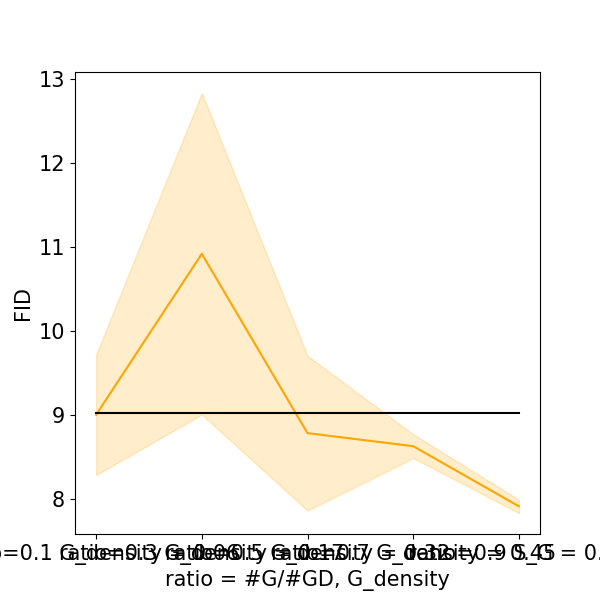
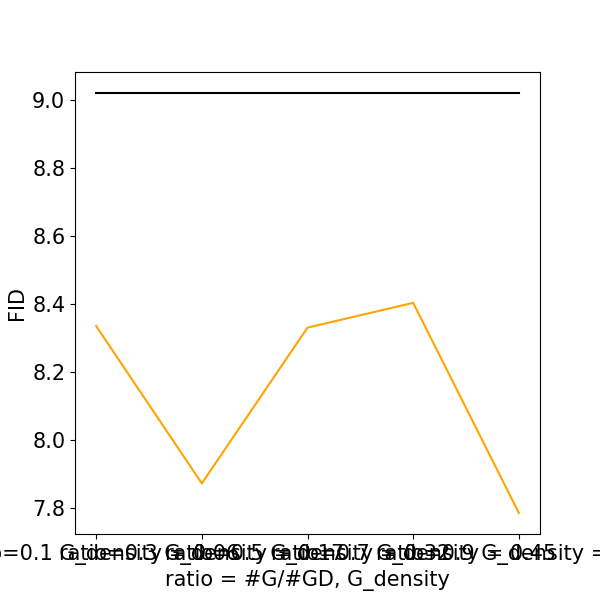
update script for ratio 0.05 0.01

diff --git a/plots/plots.py b/plots/plots.py
@@ -10,21 +10,21 @@ BigGAN_05 = np.array([10.6258, 8.3983, 8.3352, 8.234478, 8.330472]) # 85000
 BigGAN_07 = np.array([8.836767, 8.6992, 8.6248, 8.5837, 8.4033]) # 80000
 BigGAN_09 = np.array([8.0230, 7.9954, 7.9587, 7.9245, 7.7857 ])  # 75000 iteration
 
-BigGAN_line = np.stack((BigGAN_01,BigGAN_03,BigGAN_05,BigGAN_07,BigGAN_09))
+BigGAN_line = np.stack((BigGAN_01[-1],BigGAN_03[-1],BigGAN_05[-1],BigGAN_07[-1],BigGAN_09[-1]))
 
-BigGAN_line_mean = BigGAN_line.mean(axis=1)
-BigGAN_line_std = BigGAN_line.std(axis=1)
+# BigGAN_line_mean = BigGAN_line.mean(axis=1)
+# BigGAN_line_std = BigGAN_line.std(axis=1)
 
 
 
 # neme = ['RN20','RN32','RN44','RN56']
 fig, ax1 = plt.subplots(1, 1, sharex=True, figsize=(6, 6))
-ax1.plot(np.arange(5), BigGAN_line_mean, '-', label='70% sparsity BigGAN', color='orange')
-ax1.fill_between(np.arange(5), BigGAN_line_mean - BigGAN_line_std, BigGAN_line_mean + BigGAN_line_std, alpha=0.2, color='orange')
+ax1.plot(np.arange(5), BigGAN_line, '-', label='70% sparsity BigGAN', color='orange')
+# ax1.fill_between(np.arange(5), BigGAN_line_mean - BigGAN_line_std, BigGAN_line_mean + BigGAN_line_std, alpha=0.2, color='orange')
 # ax1.plot(0.27, acc_rn20_dense_mean, 'o', color='orange', label='RN20_dense')
 ax1.plot(np.arange(5), [9.02]*5, '-', label='dense BigGAN', color='black')
 # ax1.fill_between(np.arange(9),  [acc_rn20_dense_mean-acc_rn20_dense_std]*9, [acc_rn20_dense_mean+acc_rn20_dense_std]*9, alpha=0.2, color='black')
-plt.xticks(np.arange(5), ['ratio=0.1 G_density = 0.06', 'ratio=0.3 G_density = 0.17', 'ratio=0.5 G_density = 0.32','ratio=0.7 G_density = 0.45', 'ratio=0.9 S_G = 0.57',],fontsize=fontsize)
+plt.xticks(np.arange(5), ['ratio=0.1 G_density = 0.06', 'ratio=0.3 G_density = 0.17', 'ratio=0.5 G_density = 0.32','ratio=0.7 G_density = 0.45', 'ratio=0.9 G_density = 0.57',],fontsize=fontsize)
 plt.yticks(fontsize=fontsize)
 plt.xlabel('ratio = #G/#GD, G_density',fontsize=fontsize)
 plt.ylabel('FID',fontsize=fontsize)
